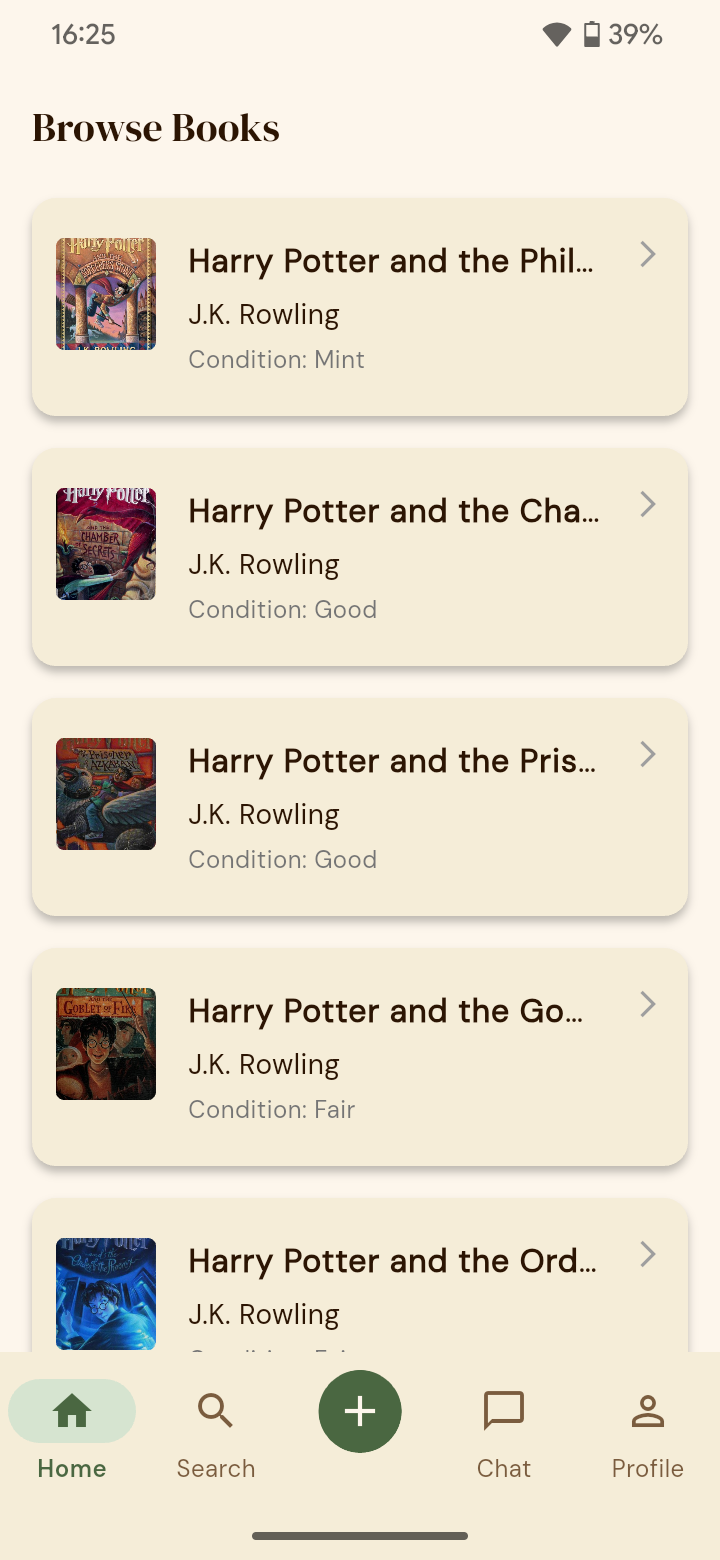
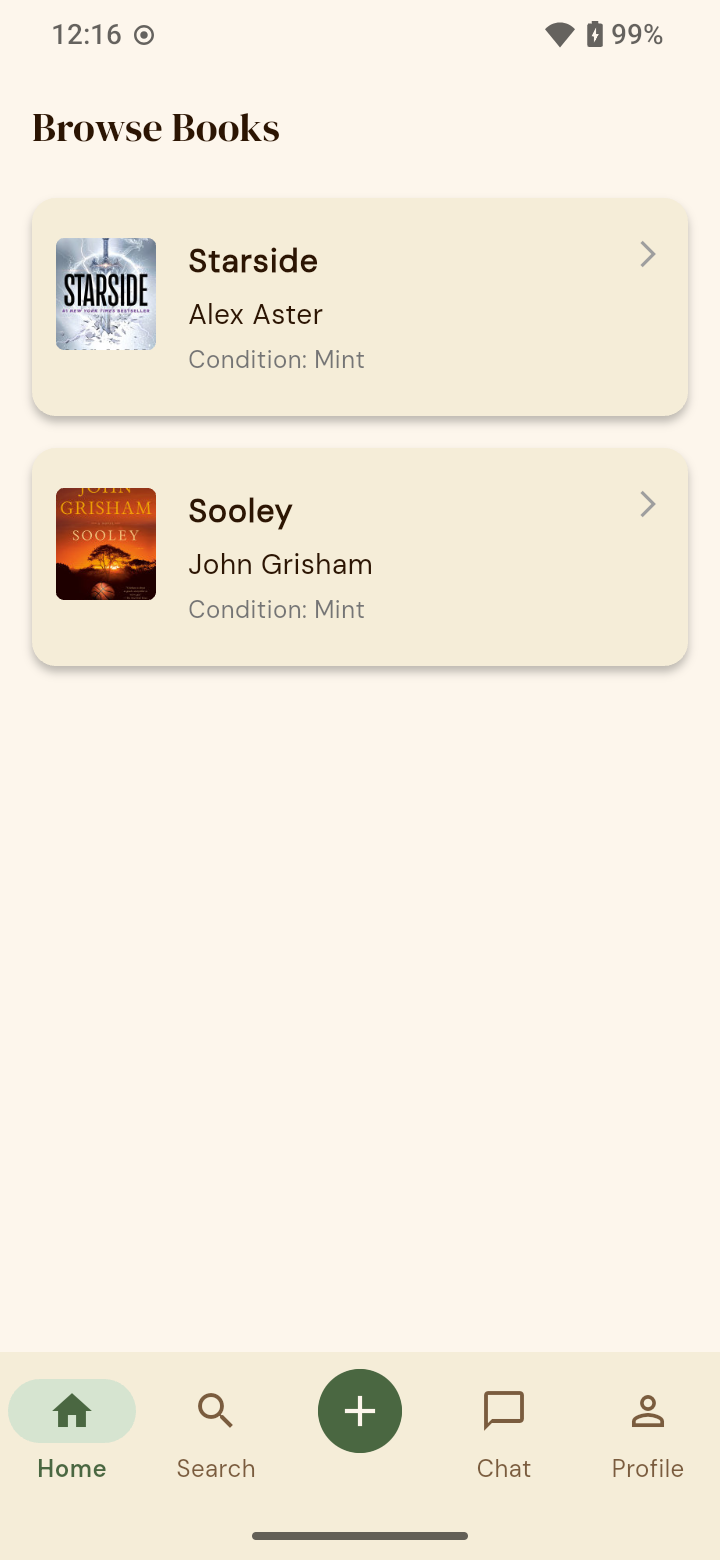
chore: update README and CHANGELOG with sprint 2 stuff

diff --git a/README.md b/README.md
@@ -109,8 +109,7 @@ Based on this feedback, the following backlog changes were made:
 <img src="docs/images/MyShelf-Mockup.png" alt="My Shelf screen" width="22%" />
 
 <img src="docs/images/Login-Mockup.png" alt="Login screen" width="22%" />
-<img src="docs/images/SwapRequests-Mockup.png" alt="Swap Requests screen" width="22%" />
-<img src="docs/images/RequestSent-Mockup.png" alt="Request Sent screen" width="22%" />
+<img src="docs/images/Chat-Mockup.png" alt="Chat screen" width="22%" />
 <img src="docs/images/Book-Mockup.png" alt="Book screen" width="22%" />
 
 </div>
@@ -275,7 +274,55 @@ Sprint 1 focused on backend integration and core exchange features: user authent
 
 ### Sprint 2
 
-_[Add Sprint 2 planning screenshots and retrospective notes here.]_
+#### Planning
+
+<p align="center">
+  <img src="docs/images/sprint2_board_start.png" alt="Sprint 2 Board — Start"/>
+</p>
+
+Sprint 2 tackled the features that were missing for the app to feel real: chat, ratings, user profiles with actual content, and safety tools. We also cleared out all the dummy data — BrowseScreen and SwapRequestsScreen now read from Firestore.
+
+**Delivered:**
+- In-app chat with swap proposals, counter-offers, typing indicators and read receipts
+- `ChatListScreen` as the inbox in the Chat tab
+- Book picker bottom sheet before creating a swap
+- `PublicProfileScreen` reachable from any chat
+- Profile bio, photo and Top 3 Favourite Authors, with a new `EditProfileScreen`
+- Partner and book condition ratings after a completed swap, with a guard against double submission
+- Exchange history listing completed swaps with cover, title, partner and date
+- Report profile — flag users via a bottom sheet (Spam / Inappropriate behaviour / Fake account / Other)
+- Public wishlist, visible in read-only mode on `PublicProfileScreen`
+- `BrowseScreen` and `SwapRequestsScreen` fully migrated from dummy data to Firestore
+- Unit tests for `WishlistService` and `RatingService` with `FakeFirebaseFirestore`
+- UATs for the rating flow and exchange history
+
+**Release:** [v0.3.0](../../releases/tag/v0.3.0)
+
+#### Retrospective
+
+<p align="center">
+  <img src="docs/images/sprint2_board_end.png" alt="Sprint 2 Board — End"/>
+</p>
+
+✅ **Did well**
+- Delivered every Must Have and Should Have story in the sprint
+- Dummy data is gone — the app talks to real Firestore data end to end
+- The chat system (proposals, counter-offers, typing, read receipts) was the most complex feature so far and shipped cleanly
+- Started creating GitHub Issues for bugs found during development instead of fixing them silently — makes the work visible and traceable
+- Security rules extended to cover every new collection added this sprint
+
+🔁 **Do differently**
+- Better time management per feature — some stories took longer than expected and compressed the end of the sprint
+- Avoid starting two features at the same time when they touch the same files; we had merge conflicts that cost time and could have been avoided with a quick heads-up first
+
+❓ **Puzzles**
+- How `collectionGroup` queries will behave at scale — worth keeping an eye on read costs as the user base grows
+- Offline behaviour with real-time chat: what should the app show when there's no connection?
+
+📌 **Improvements for Sprint 3**
+- Filters on `BrowseScreen` (deferred twice now — has to ship)
+- Search UX redesign — currently surfaces books as swap listings, not as a discovery tool
+- Automate GitHub Release uploads once org permissions are sorted
 
 ### Sprint 3
 

diff --git a/CHANGELOG.md b/CHANGELOG.md
@@ -6,6 +6,42 @@ The format is based on [Keep a Changelog](https://keepachangelog.com/en/1.0.0/).
 
 ---
 
+## [0.3.0] - 2026-05-15 — Sprint 2 Release
+
+### Added
+- In-app chat system (Vinted-style) with swap proposals, counter-offers, typing indicators and read receipts
+- `ChatListScreen` as inbox in the bottom nav Chat tab
+- Book picker bottom sheet to select offered book before creating a swap
+- `PublicProfileScreen` accessible from chat with another user
+- User profile bio, profile photo and Top 3 Favourite Authors (Firestore-persisted)
+- `EditProfileScreen` with multiline bio, photo upload and author fields
+- Rating system — rate trading partner (1–5 stars) and book condition after a completed swap
+- `RateExchangeScreen` with duplicate submission prevention (`hasRated` guard)
+- Exchange history screen listing all successfully completed swaps with cover, title, partner and date
+- Report profile feature — flag suspicious users via bottom sheet (Spam / Inappropriate behaviour / Fake account / Other)
+- Public wishlist — users can create and share a list of books they want to acquire
+- `WishlistScreen` with long-press-to-delete and add by title/author/ISBN
+- Wishlist visible in read-only mode on `PublicProfileScreen`
+- Unit tests for `WishlistService` and `RatingService` using `FakeFirebaseFirestore`
+- UATs for rating flow and exchange history
+
+### Changed
+- `BrowseScreen` fully migrated from dummy data to Firestore via `collectionGroup('shelf')`
+- `SwapRequestsScreen` migrated from dummy data — now shows real cover, title and `displayName`
+- `BookShelfProvider.addBook` now persists `ownerId` and `ownerName` to Firestore
+- Swap request flow moved from `ProfileScreen` menu to Chat tab
+- `ProfileScreen` menu extended with Exchange History and My Wishlist entries
+- Made the suggested changes to the Logical Architecture UML
+
+### Removed
+- Dummy data from `BrowseScreen` and `SwapRequestsScreen` (fully replaced by Firestore)
+
+### Security
+- Firestore security rules added for `ratings`, `reports` and `users/{uid}/wishlist` collections
+
+### Known Limitations
+- GitHub Release asset upload still triggered manually due to org-level Actions permissions (403)
+
 ## [0.2.0] - 2026-04-19 — Sprint 1 Release
 
 ### Added
